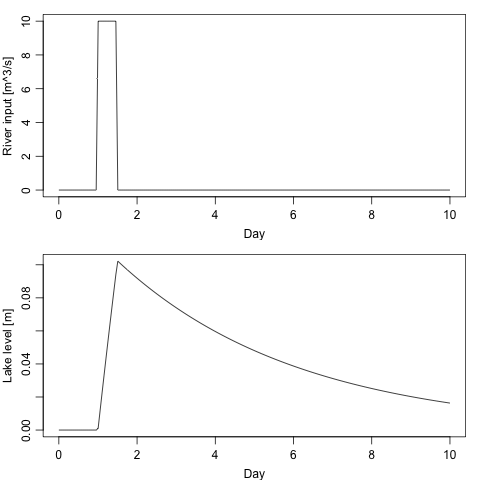
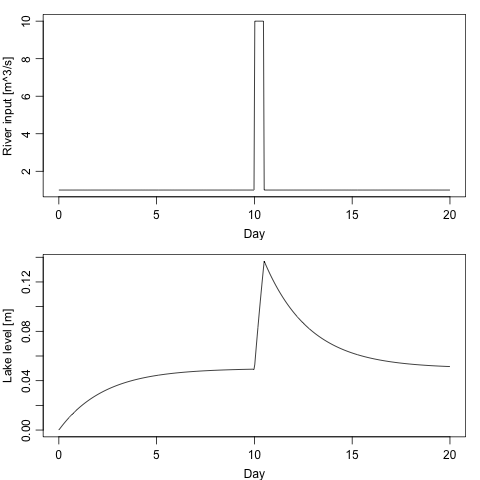
update to more interesting box model

diff --git a/_posts/2014-03-16-box-model.md b/_posts/2014-03-16-box-model.md
@@ -25,7 +25,7 @@ But let's stick to the lake, shall we?
 
 Let the lake surface area be *A*, and its water level be *h*, with the latter
 being expressed as height above (constant) sea level.  Let the river input
-volume per unit time be *F*.   Suppose that the lake drains into the sea with
+volume per unit time be *R*.   Suppose that the lake drains into the sea with
 volume output per unit time given by a linear law (as perhaps with
 pressure-driven viscous flow) of the form $$\gamma h$$ where the coefficient
 has units of area per time.
@@ -33,20 +33,20 @@ has units of area per time.
 
 The principle of volume conservation yields the differential equation
 
-$$A\frac{dh}{dt} = F - \gamma h$$
+$$A\frac{dh}{dt} = R - \gamma h$$
 
 Here, the left-hand side is the changing volume of the lake (assuming vertical
-coastline).  In this equation, *F* (with units m$^3$/s) may vary with time as
+coastline).  In this equation, *R* (with units m$^3$/s) may vary with time as
 rivers flow and ebb, driven by rainfall or perhaps spring snowmelt.
 
 In many circumstances it would make sense to non-dimensionalize the equation at
 this point, but for practical purposes it can be convenient to retain physical
 units.  (For example, the task could be to find the response to an observed
-time series *F=F(t)* of forcing.)
+time series *R=R(t)* of forcing.)
 
 Expressing the model as
 
-$$\frac{dh}{dt} = \frac{F-\gamma h}{A}$$
+$$\frac{dh}{dt} = \frac{R-\gamma h}{A}$$
 
 is helpful since this is a form that works well with `lsoda()`, the R function
 to be used here to carry out the numerical integration of the differential
@@ -74,27 +74,27 @@ We start by defining initial conditions, in line 1.  In this case, suppose that
 `h=0`, i.e. that the lake water level is equal to that of the sea.  Then, in
 line 2, we set parameters.  This is at the heart of the matter, and will be the
 most important part of any application of such a model.  Here, we take simple
-values: square lake of width 1 km (`A`=10^6 m^2), and outflow coefficient
-`gamma=`10 m^2/s.
+values: square lake of width 2 km ( so $A=4\times 10^6$ m$^2$), and outflow coefficient
+$\gamma=20$ m$^2$/s.
 
 
 
 ```R
 IC <- 0
-parms <- list(A = 4e6, gamma = 10)
+parms <- list(A = 4e6, gamma = 20)
 ```
 
-Suppose we would like to examine the result of riverine input `F` of 1m^3/s
-lasting for a day, so that it makes sense to set up a time vector of, say, a
-week.
+Suppose we would like to examine the result of riverine input `R` varying from
+a base value of 1 m$^3$/s to a half-day increase to 10 m$^3$/s.  We may do that
+as follows.
 
 
 ```R
 sperday <- 86400 # seconds per day
-times <- seq(0, 10*sperday, length.out=200)
-F <- function(t)
+times <- seq(0, 20*sperday, length.out = 500)
+R <- function(t)
 {
-    ifelse(1.0 * sperday < t & t < 1.5 * sperday, 10, 0)
+    1 + ifelse(10.0 * sperday < t & t < 10.5 * sperday, 9, 0)
 }
 ```
 
@@ -111,7 +111,7 @@ derivatives.
 DE <- function(t, y, parms)
 {
     h <- y[1]
-    dhdt <- (F(t) - parms$gamma * h) / parms$A
+    dhdt <- (R(t) - parms$gamma * h) / parms$A
     list(dhdt)
 }
 ```
@@ -138,11 +138,17 @@ for simplicity).
 par(mfrow=c(2,1), mar=c(3,3,1,1), mgp=c(2,0.7,0))
 h <- sol[,2]
 Day <- times / 86400
-plot(Day, F(times), type='l', ylab="River input [m^3/s]")
+plot(Day, R(times), type='l', ylab="River input [m^3/s]")
 plot(Day, h, type='l', ylab="Lake level [m]")
+lines(h = 1 / parms$gamma) # theoretical steady state for 1 m^3/s
 ```
 
 ![Box-model results.](/skills-github-pages/docs/assets/images/2014-03-17-box-model.png) 
+
+In this case, the model is so simple that there is no real need for a numerical
+simulation, but this would not be true if, say, realistically-varyig $R(t)$
+forcing was applied, if $\gamma$ were parameterized to vary with $h$,
+etc.
 
 # Conclusions
 
@@ -162,7 +168,7 @@ applications, e.g. modelling dam-break situations.
 
 At a more advanced level, one can also use such a model in a data-assimilative
 way to infer parameter values from observations of quantities predicted by the
-model.  For example, if *F* were known for a given lake (and of course its area
+model.  For example, if *R* were known for a given lake (and of course its area
 known also) then observations of lake level could yield a value of `gamma` as
 formulated here, or could suggest another formulation for lake outflow.
 
